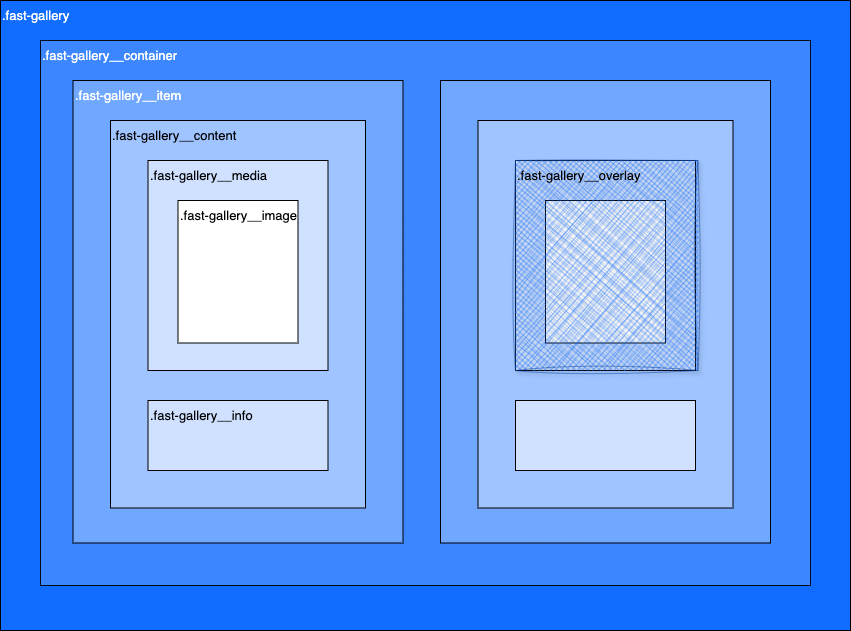
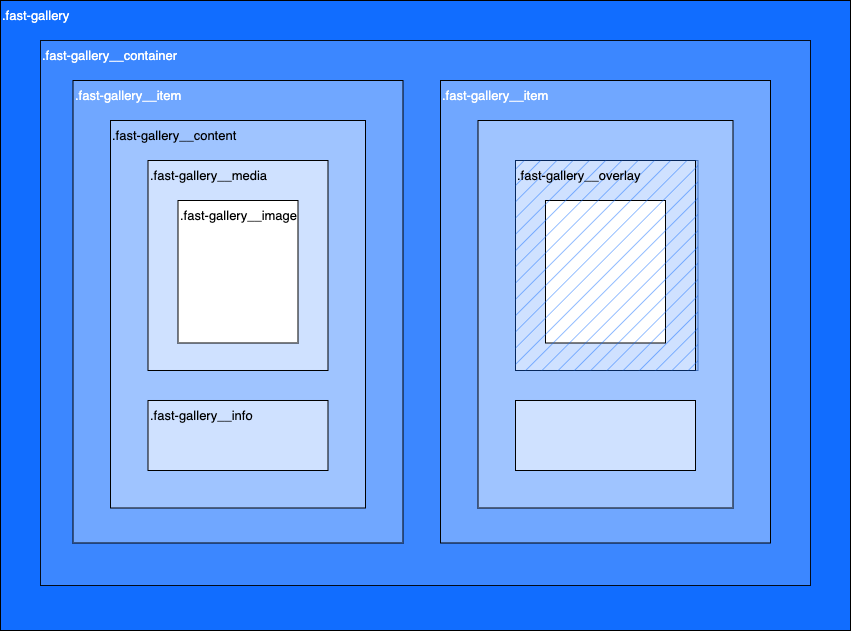
add css article to FG

Changed region(s): [[0.5805, 0.2409, 0.8249, 0.6022], [0.5194, 0.1506, 0.6416, 0.1807]]

diff --git a/js-wixcode-sdk/$w/fastgallery/guides/CSS Classes.md b/js-wixcode-sdk/$w/fastgallery/guides/CSS Classes.md
@@ -52,7 +52,7 @@ For example:
 
 ## `.fast-gallery__item`
 
-Targets the item containers nested in the fast gallery container.
+Targets the item containers nested in the fast gallery container. 
 For example:
 
 ```css
@@ -91,7 +91,7 @@ For example:
 
 ## `.fast-gallery__overlay`
 
-Targets the overlay of the media container.
+Targets the overlay on the same level as the media container.
 For example:
 
 ```css
@@ -115,7 +115,7 @@ For example:
 
 ## `.fast-gallery__info`
 
-Targets the info container nested in the content container.
+Targets the info container nested in the content container. Info included 
 For example:
 
 ```css
